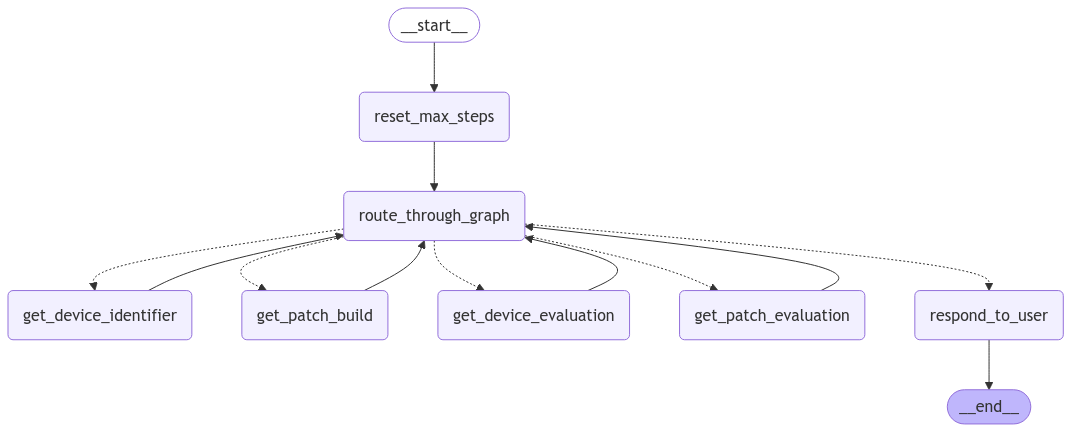
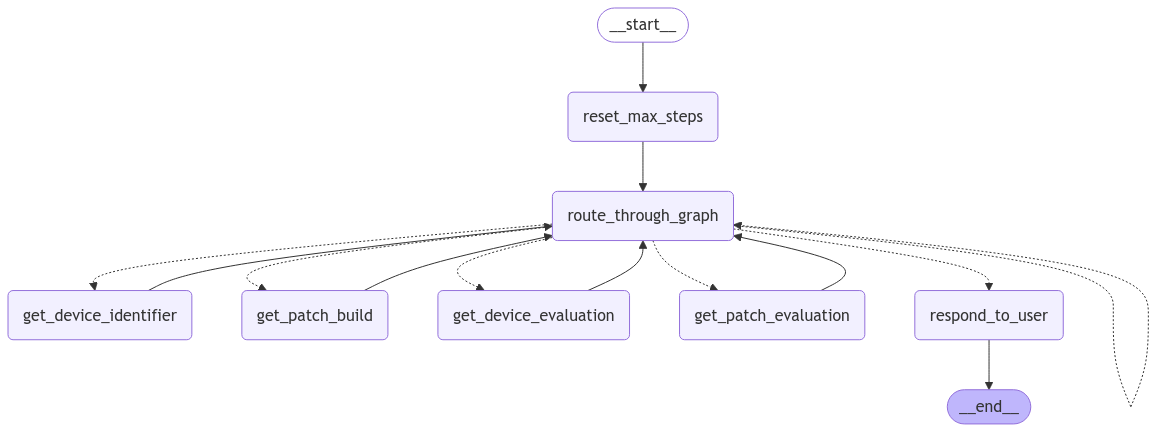
feat: refactor GraphDeviceEvaluator to streamline action handling and update model provider to OpenAI

diff --git a/hbit/endpoints/graphs.py b/hbit/endpoints/graphs.py
@@ -29,14 +29,14 @@ class GraphDeviceEvaluator:
         graph_builder.add_node("get_device_evaluation", nodes.get_device_evaluation)
         graph_builder.add_node("get_patch_evaluation", nodes.get_patch_evaluation)
         graph_builder.add_node("respond_to_user", nodes.respond_to_user)
+
         graph_builder.add_edge(START, "reset_max_steps")
         graph_builder.add_edge("reset_max_steps", "route_through_graph")
-        graph_builder.add_edge("respond_to_user", END)
-
         graph_builder.add_edge("get_device_identifier", "route_through_graph")
         graph_builder.add_edge("get_patch_build", "route_through_graph")
         graph_builder.add_edge("get_device_evaluation", "route_through_graph")
         graph_builder.add_edge("get_patch_evaluation", "route_through_graph")
+        graph_builder.add_edge("respond_to_user", END)
 
         self.graph = graph_builder.compile(checkpointer=saver)
         self.model = self.registry.get_service(types.AgentModel)
@@ -79,6 +79,7 @@ class GraphDeviceEvaluator:
             "get_device_evaluation",
             "get_patch_evaluation",
             "respond_to_user",
+            "route_through_graph",
         ]
     ]:
         """Route the state through the graph."""
@@ -105,64 +106,78 @@ class GraphDeviceEvaluator:
         conversation_messages = [*state["messages"]]
         conversation_messages[0] = SystemMessage(prompt)
         # TODO: Add Few Shot Learning to the model
-        response: dto.GraphRouterResponse = self.graph_router.invoke(
+        action: dto.GraphRouterResponse = self.graph_router.invoke(
             conversation_messages
         )  # type: ignore
 
         try:
-            match response.action:
-                case enums.GraphAction.DEVICE_EXTRACTION:
-                    assert isinstance(response.data, dto.ExtractionText), (
-                        "Data must be of type ExtractionText"
-                    )
-                    return Command(
-                        goto="get_device_identifier",
-                        update={
-                            "text": response.data.text,
-                            "current_step": state["current_step"] + 1,
-                        },
-                    )
-                case enums.GraphAction.PATCH_EXTRACTION:
-                    assert isinstance(response.data, dto.ExtractionText), (
-                        "Data must be of type ExtractionText"
-                    )
-                    return Command(
-                        goto="get_patch_build",
-                        update={
-                            "text": response.data.text,
-                            "current_step": state["current_step"] + 1,
-                        },
-                    )
-                case enums.GraphAction.DEVICE_EVALUATION:
-                    assert isinstance(response.data, dto.DeviceEvaluationParameters), (
-                        "Data must be of type DeviceEvaluationParameters"
-                    )
-                    return Command(
-                        goto="get_device_evaluation",
-                        update={
-                            **response.data.model_dump(),
-                            "current_step": state["current_step"] + 1,
-                        },
-                    )
-                case enums.GraphAction.PATCH_EVALUATION:
-                    assert isinstance(response.data, dto.PatchEvaluationParameters), (
-                        "Data must be of type PatchEvaluationParameters"
-                    )
-                    return Command(
-                        goto="get_patch_evaluation",
-                        update={
-                            **response.data.model_dump(),
-                            "current_step": state["current_step"] + 1,
-                        },
-                    )
-                case enums.GraphAction.RESPOND:
-                    return Command(goto="respond_to_user")
+            return self.send_action(state, action)
         except Exception as error:
             message = AIMessage(f"Error: {error} Try fixing the error.")
             return Command(
                 goto="route_through_graph",
                 update={"messages": message, "current_step": state["current_step"] + 1},
             )
+
+    def send_action(
+        self, state: dto.GraphStateSchema, action: dto.GraphRouterResponse
+    ) -> Command[
+        typing.Literal[
+            "get_device_identifier",
+            "get_patch_build",
+            "get_device_evaluation",
+            "get_patch_evaluation",
+            "respond_to_user",
+            "route_through_graph",
+        ]
+    ]:
+        match action.action:
+            case enums.GraphAction.DEVICE_EXTRACTION:
+                assert isinstance(action.data, dto.ExtractionText), (
+                    "Data must be of type ExtractionText"
+                )
+                return Command(
+                    goto="get_device_identifier",
+                    update={
+                        "text": action.data.text,
+                        "current_step": state["current_step"] + 1,
+                    },
+                )
+            case enums.GraphAction.PATCH_EXTRACTION:
+                assert isinstance(action.data, dto.ExtractionText), (
+                    "Data must be of type ExtractionText"
+                )
+                return Command(
+                    goto="get_patch_build",
+                    update={
+                        "text": action.data.text,
+                        "current_step": state["current_step"] + 1,
+                    },
+                )
+            case enums.GraphAction.DEVICE_EVALUATION:
+                assert isinstance(action.data, dto.DeviceEvaluationParameters), (
+                    "Data must be of type DeviceEvaluationParameters"
+                )
+                return Command(
+                    goto="get_device_evaluation",
+                    update={
+                        **action.data.model_dump(),
+                        "current_step": state["current_step"] + 1,
+                    },
+                )
+            case enums.GraphAction.PATCH_EVALUATION:
+                assert isinstance(action.data, dto.PatchEvaluationParameters), (
+                    "Data must be of type PatchEvaluationParameters"
+                )
+                return Command(
+                    goto="get_patch_evaluation",
+                    update={
+                        **action.data.model_dump(),
+                        "current_step": state["current_step"] + 1,
+                    },
+                )
+            case enums.GraphAction.RESPOND:
+                return Command(goto="respond_to_user")
 
     def save_graph_image(self, img_path: pathlib.Path) -> None:
         graph_image = self.graph.get_graph().draw_mermaid_png()

diff --git a/hbit/ui/security_graph.py b/hbit/ui/security_graph.py
@@ -55,7 +55,7 @@ def update_configuration() -> None:
         or enums.PatchExtractorType.JSON,
         summary_service_type=enums.SummaryServiceType.AI,
         model_provider=st.session_state.get("model_provider")
-        or enums.ModelProvider.GOOGLE,
+        or enums.ModelProvider.OPEN_AI,
     )
     graph_evaluator = endpoints.GraphDeviceEvaluator(registry)
     graph_graph = graph_evaluator.graph
@@ -75,7 +75,7 @@ with st.sidebar:
         list(enums.ModelProvider),
         selection_mode="single",
         key="model_provider",
-        default=enums.ModelProvider.GOOGLE,
+        default=enums.ModelProvider.OPEN_AI,
         on_change=update_configuration,
     )
     device_extractor = st.pills(
